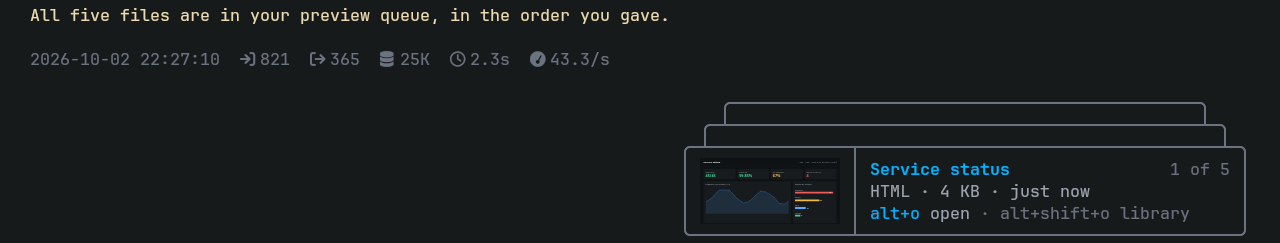
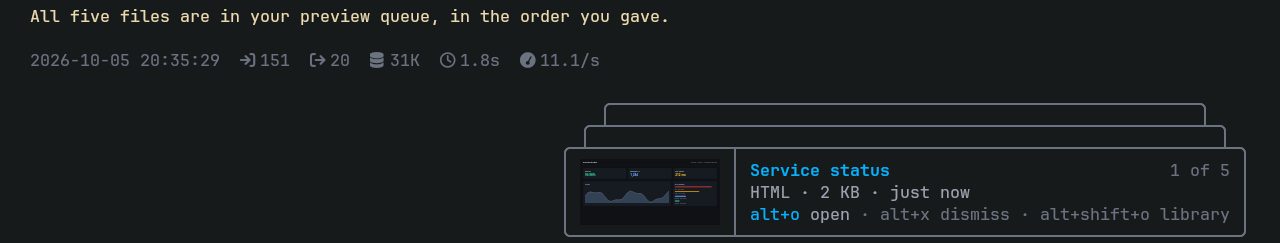
feat: alt+x dismisses the newest queued artifact
The front card leaves the queue unopened and the next one moves up; the
artifact stays in the Library. The card's text column grows to 48 so the
key line fits the new hint.

diff --git a/src/index.ts b/src/index.ts
@@ -5,6 +5,7 @@
  *                              above the prompt, right-aligned
  *   alt+o, or a click on the   opens the newest card's artifact; closing the viewer
  *   card's title               takes it off the queue
+ *   alt+x                      dismisses the newest card unopened; it stays in the library
  *   alt+shift+o, /artifacts    the Artifact Library: everything ever shown or viewed
  *   /view                      the queue head, else the last .html/.md written this session
  *   /view <path | URL>         any file (relative to the session cwd, ~ allowed)
@@ -89,12 +90,13 @@ const PREWARM_RE = /\.(html?|md|markdown)$/i;
 /** Opens the queue head; unbound in omp's default keymap. */
 const SHORTCUT = "alt+o";
 const LIBRARY_SHORTCUT = "alt+shift+o";
+const DISMISS_SHORTCUT = "alt+x";
 const CARD_WIDGET = "omp-artifacts-card";
 /** Target of the card's OSC 8 link; kitty's open-actions.conf turns a click into SHORTCUT. */
 const CARD_LINK = "omp-artifacts://open";
 const THUMB_COLS = 14;
 const THUMB_ROWS = 3;
-const CARD_TEXT_COLS = 36;
+const CARD_TEXT_COLS = 48;
 
 const FULLSCREEN: OverlayOptions = { fullscreen: true, mouseTracking: true, width: "100%", maxHeight: "100%", row: 0, col: 0 };
 
@@ -587,13 +589,13 @@ async function viewAndRecord(ctx: ExtensionContext, target: Target): Promise<voi
  * grows with the queue: further items only show as up to two card edges peeking
  * out above it, plus "1 of N". The library lists and tags every queued item.
  *
- *       ╭───────────────────────────────────────────────╮
- *     ╭─┴───────────────────────────────────────────────┴─╮
- *   ╭─┴──────────────┬────────────────────────────────────┴─╮
- *   │ [thumbnail]    │ Quarterly report              1 of 3 │
- *   │                │ HTML · 217 KB · just now             │
- *   │                │ alt+o open · alt+shift+o library     │
- *   ╰────────────────┴──────────────────────────────────────╯
+ *       ╭───────────────────────────────────────────────────────────╮
+ *     ╭─┴───────────────────────────────────────────────────────────┴─╮
+ *   ╭─┴──────────────┬────────────────────────────────────────────────┴─╮
+ *   │ [thumbnail]    │ Quarterly report                          1 of 3 │
+ *   │                │ HTML · 217 KB · just now                         │
+ *   │                │ alt+o open · alt+x dismiss · alt+shift+o library │
+ *   ╰────────────────┴──────────────────────────────────────────────────╯
  */
 class QueueCard implements Component {
 	#tui: TUI;
@@ -625,7 +627,10 @@ class QueueCard implements Component {
 		const text = [
 			pad(title, CARD_TEXT_COLS - visibleWidth(position)) + position,
 			fit(t.fg("muted", `${KIND_LABEL[head.kind]}${size} · ${ago(Date.now() - head.addedAt)}`), CARD_TEXT_COLS),
-			fit(`${t.fg("accent", SHORTCUT)} ${t.fg("muted", "open")} ${t.fg("dim", `· ${LIBRARY_SHORTCUT} library`)}`, CARD_TEXT_COLS),
+			fit(
+				`${t.fg("accent", SHORTCUT)} ${t.fg("muted", "open")} ${t.fg("dim", `· ${DISMISS_SHORTCUT} dismiss · ${LIBRARY_SHORTCUT} library`)}`,
+				CARD_TEXT_COLS,
+			),
 		];
 		const thumb = head.thumb?.grid ?? thumbPlaceholder(t, head.thumbState === "failed" ? "no preview" : "rendering…");
 		const bar = (s: string) => t.fg("dim", s);
@@ -1017,6 +1022,13 @@ export default function htmlView(pi: ExtensionAPI): void {
 			const head = queue[0];
 			if (head) await viewAndRecord(ctx, head);
 			else ctx.ui.notify(`the preview queue is empty (${LIBRARY_SHORTCUT} opens the library)`, "info");
+		},
+	});
+
+	pi.registerShortcut(DISMISS_SHORTCUT, {
+		description: "Dismiss the newest artifact in the preview queue without opening it",
+		handler: () => {
+			if (queue[0]) dequeue(queue[0].source);
 		},
 	});
 

diff --git a/README.md b/README.md
@@ -10,7 +10,8 @@ mouse wheel. Everything you were shown stays in a searchable library.
 ![The agent queued five files; the card above the prompt shows the newest](docs/queue.webp)
 
 - **Preview queue.** The agent calls `show_artifact`. A card with a thumbnail shows the newest item;
-  more items stack behind it (`1 of 5`). `alt+o`, or a click on the card title, opens it.
+  more items stack behind it (`1 of 5`). `alt+o`, or a click on the card title, opens it; `alt+x`
+  dismisses it unopened.
 - **Viewer.** A full-screen, scrollable render of the page, made by omp's own headless Chromium and drawn with
   kitty graphics. `m` switches to a 390 px phone layout.
 - **Artifact Library.** `alt+shift+o` lists everything shown or viewed in this project, with
@@ -55,6 +56,7 @@ to it and tells it to point you at the queue instead of describing how to open a
 | Key or command | What it does |
 |---|---|
 | `alt+o`, click on the card title | open the newest queued artifact; closing the viewer removes it from the queue |
+| `alt+x` | dismiss the newest queued artifact without opening it; it stays in the library |
 | `alt+shift+o`, `/artifacts` | open the Artifact Library |
 | `/view <file or URL>` | view any file; paths are relative to the session folder, `~` works |
 | `/view` | the newest queued artifact, else the last `.html`/`.md` the agent wrote |
